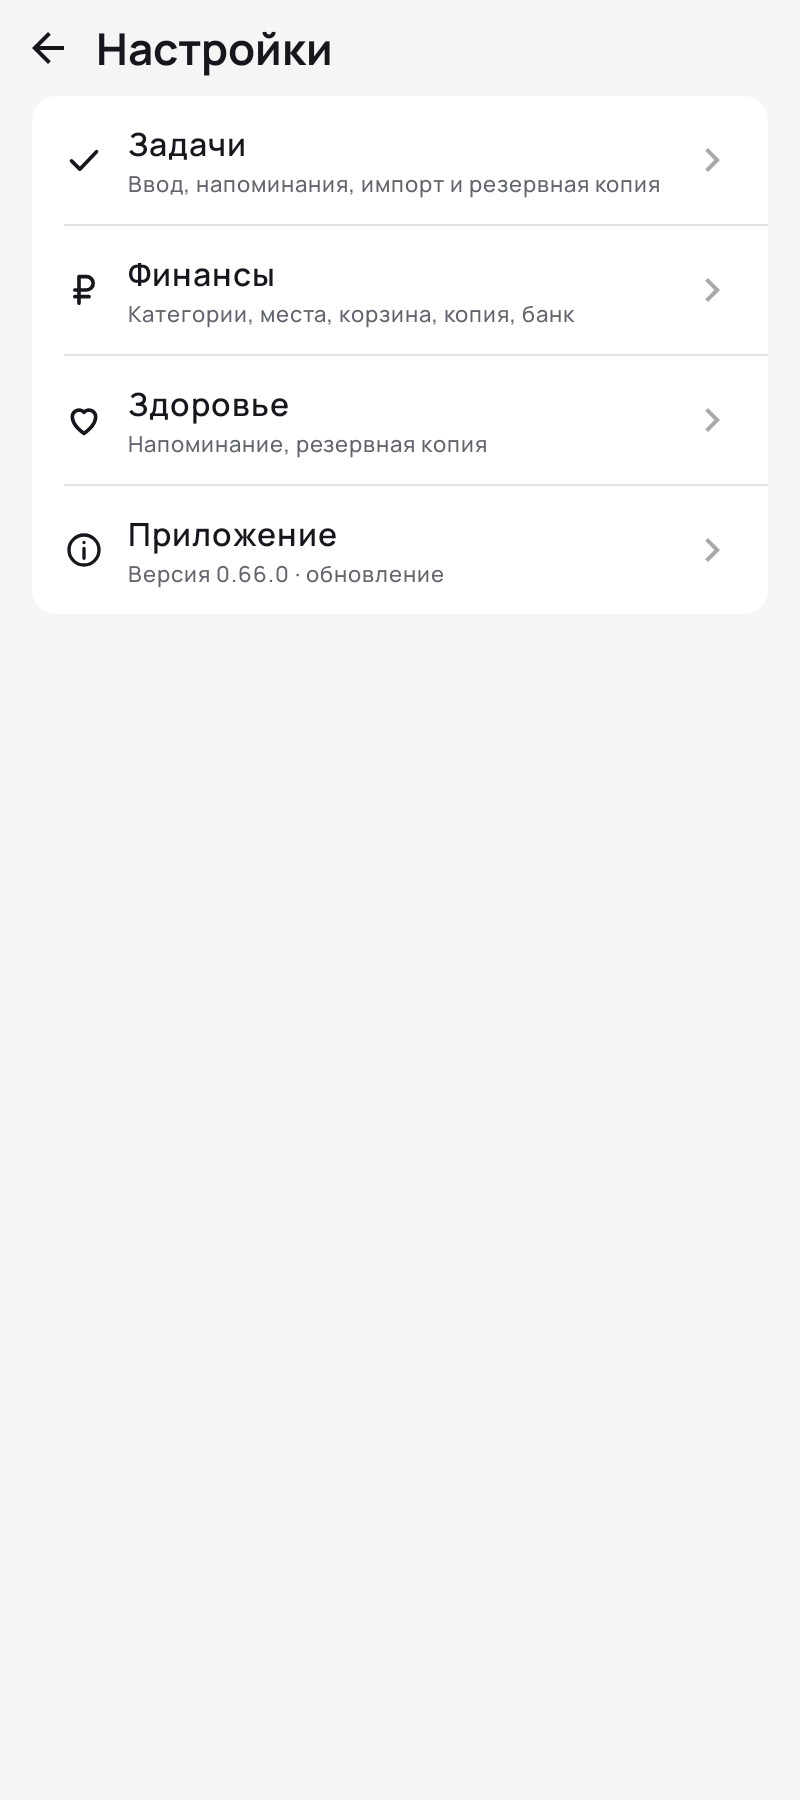
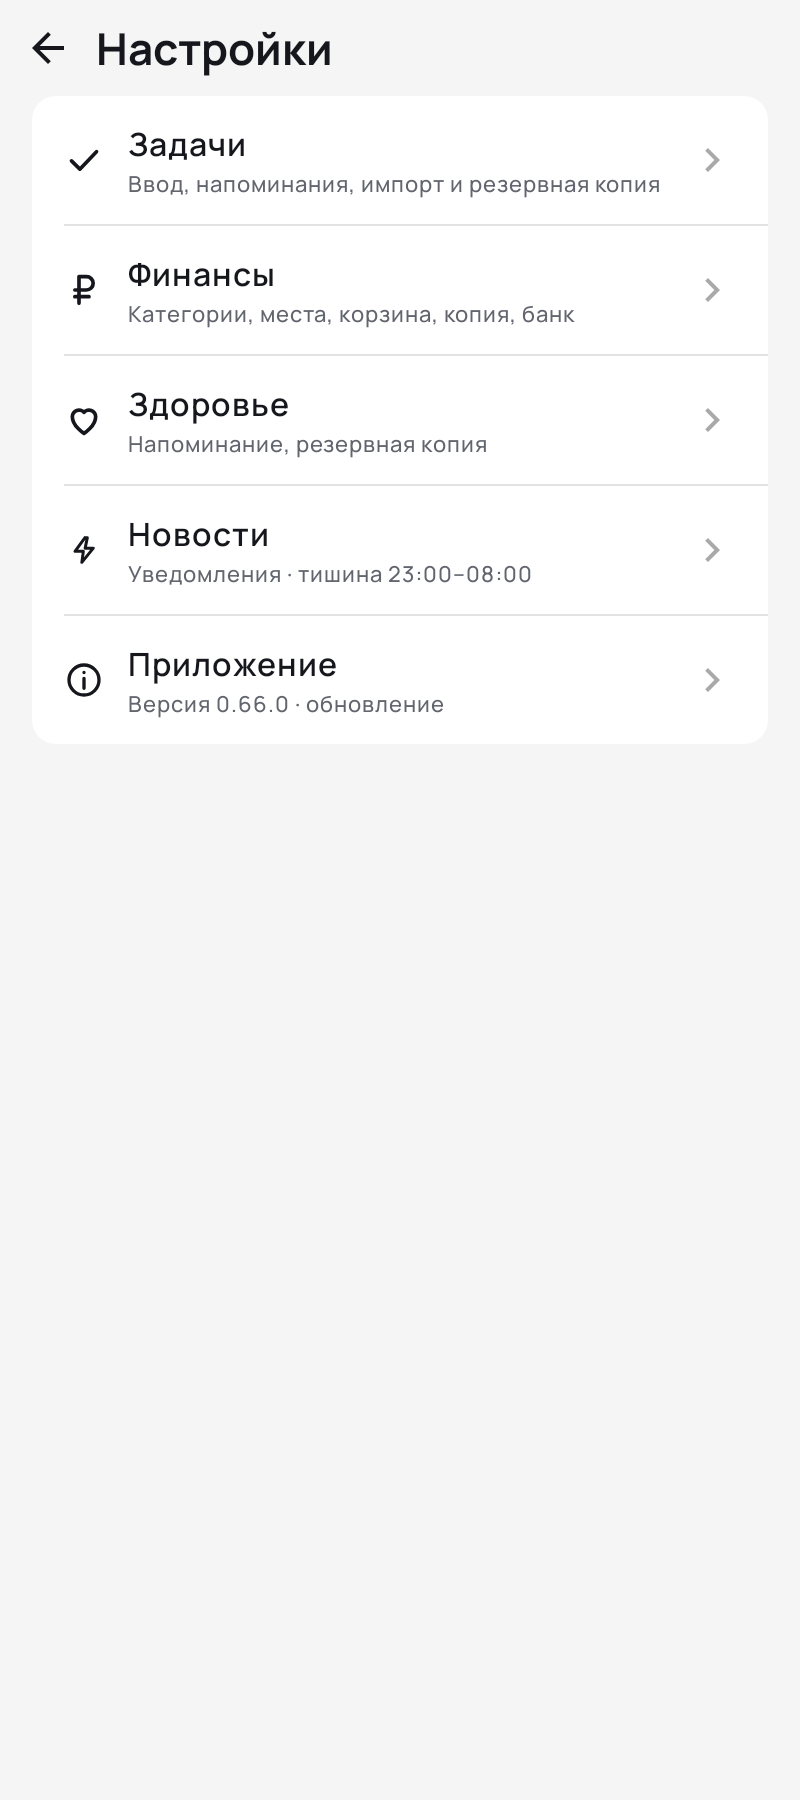
Снимки и отчёт локальной проверки 0.81.0 (#296)
Claude-Session: https://claude.ai/code/session_019jJJH8rKyfX5gCn8Qf3pcD

diff --git a/docs/HANDOFF.md b/docs/HANDOFF.md
@@ -4,7 +4,7 @@
 
 ## В работе — #296, 0.81.0
 
-Исполнитель Claude Code, ветка `claude/news-notifications` от main `3fa64fe448c482e22831a4de109386f51d6f9c24`. [Задача #296](https://github.com/prostovasei/simpe-tasks-app/issues/296), [ТЗ](../design/approved/296/requirements.md), [макеты](../design/approved/296/README.md). Фоновая проверка новостей раз в ~2 часа с одним уведомлением, период тишины в настройках, четыре иконки уведомлений. Ответы PM 22.11.2026: 1А, тишина в настройках, 3А1, 4А. Этап — макеты на согласовании PM; код не начат. Последний отправленный коммит фиксируется в #296.
+Исполнитель Claude Code, ветка `claude/news-notifications` от main `3fa64fe448c482e22831a4de109386f51d6f9c24`. [Задача #296](https://github.com/prostovasei/simpe-tasks-app/issues/296), [ТЗ](../design/approved/296/requirements.md), [макеты](../design/approved/296/README.md). Фоновая проверка новостей раз в ~2 часа с одним уведомлением, период тишины в настройках, четыре иконки уведомлений. Ответы PM 22.11.2026: 1А, тишина в настройках, 3А1, 4А. PM согласовал макеты и дал «Код» 22.11.2026. Код готов: WorkManager `news_check`, `NewsAlerts`, страница «Новости» в настройках, `ic_notification_*`. Локально assembleDebug/check/recordRoborazziDebug успешны, 893 теста, 0 ошибок, 3 пропуска. [Отчёт](testing-runs/0.81.0-local.md). Следующий этап — «Проверка» по команде PM. Последний отправленный коммит фиксируется в #296.
 
 ## Последний выпуск — 0.80.4
 

diff --git a/docs/testing-runs/0.81.0-local.md b/docs/testing-runs/0.81.0-local.md
@@ -1,0 +1,11 @@
+# 0.81.0 — локальная проверка (#296)
+
+22.11.2026, Claude Code, облачный контейнер (SDK из `tools/cloud-setup.sh`). Ветка `claude/news-notifications`.
+
+- `./gradlew assembleDebug check recordRoborazziDebug` — BUILD SUCCESSFUL.
+- Модульные тесты: 893, 0 ошибок и падений, 3 пропуска. AppSmokeTest прошёл.
+- Новые тесты: `NewsAlertsTest` (новое, тишина, объединение с неснятым уведомлением, забывание ключей, тишина через полночь), `NewsSettingsTest`; `SettingsScreenTest` проверяет пункт «Новости».
+- Снимки просмотрены: `news_settings_light`, `news_settings_off_light`, `settings_home_light` совпадают с макетами design/approved/296.
+- Снимки, зависящие от текущей даты (лента новостей, умные даты, окно обновления), перезаписались без изменений кода и возвращены к версии main.
+
+Не проверено локально: работа WorkManager по расписанию, уведомление в шторке, расход батареи — только на телефоне (NN296-1–6).
